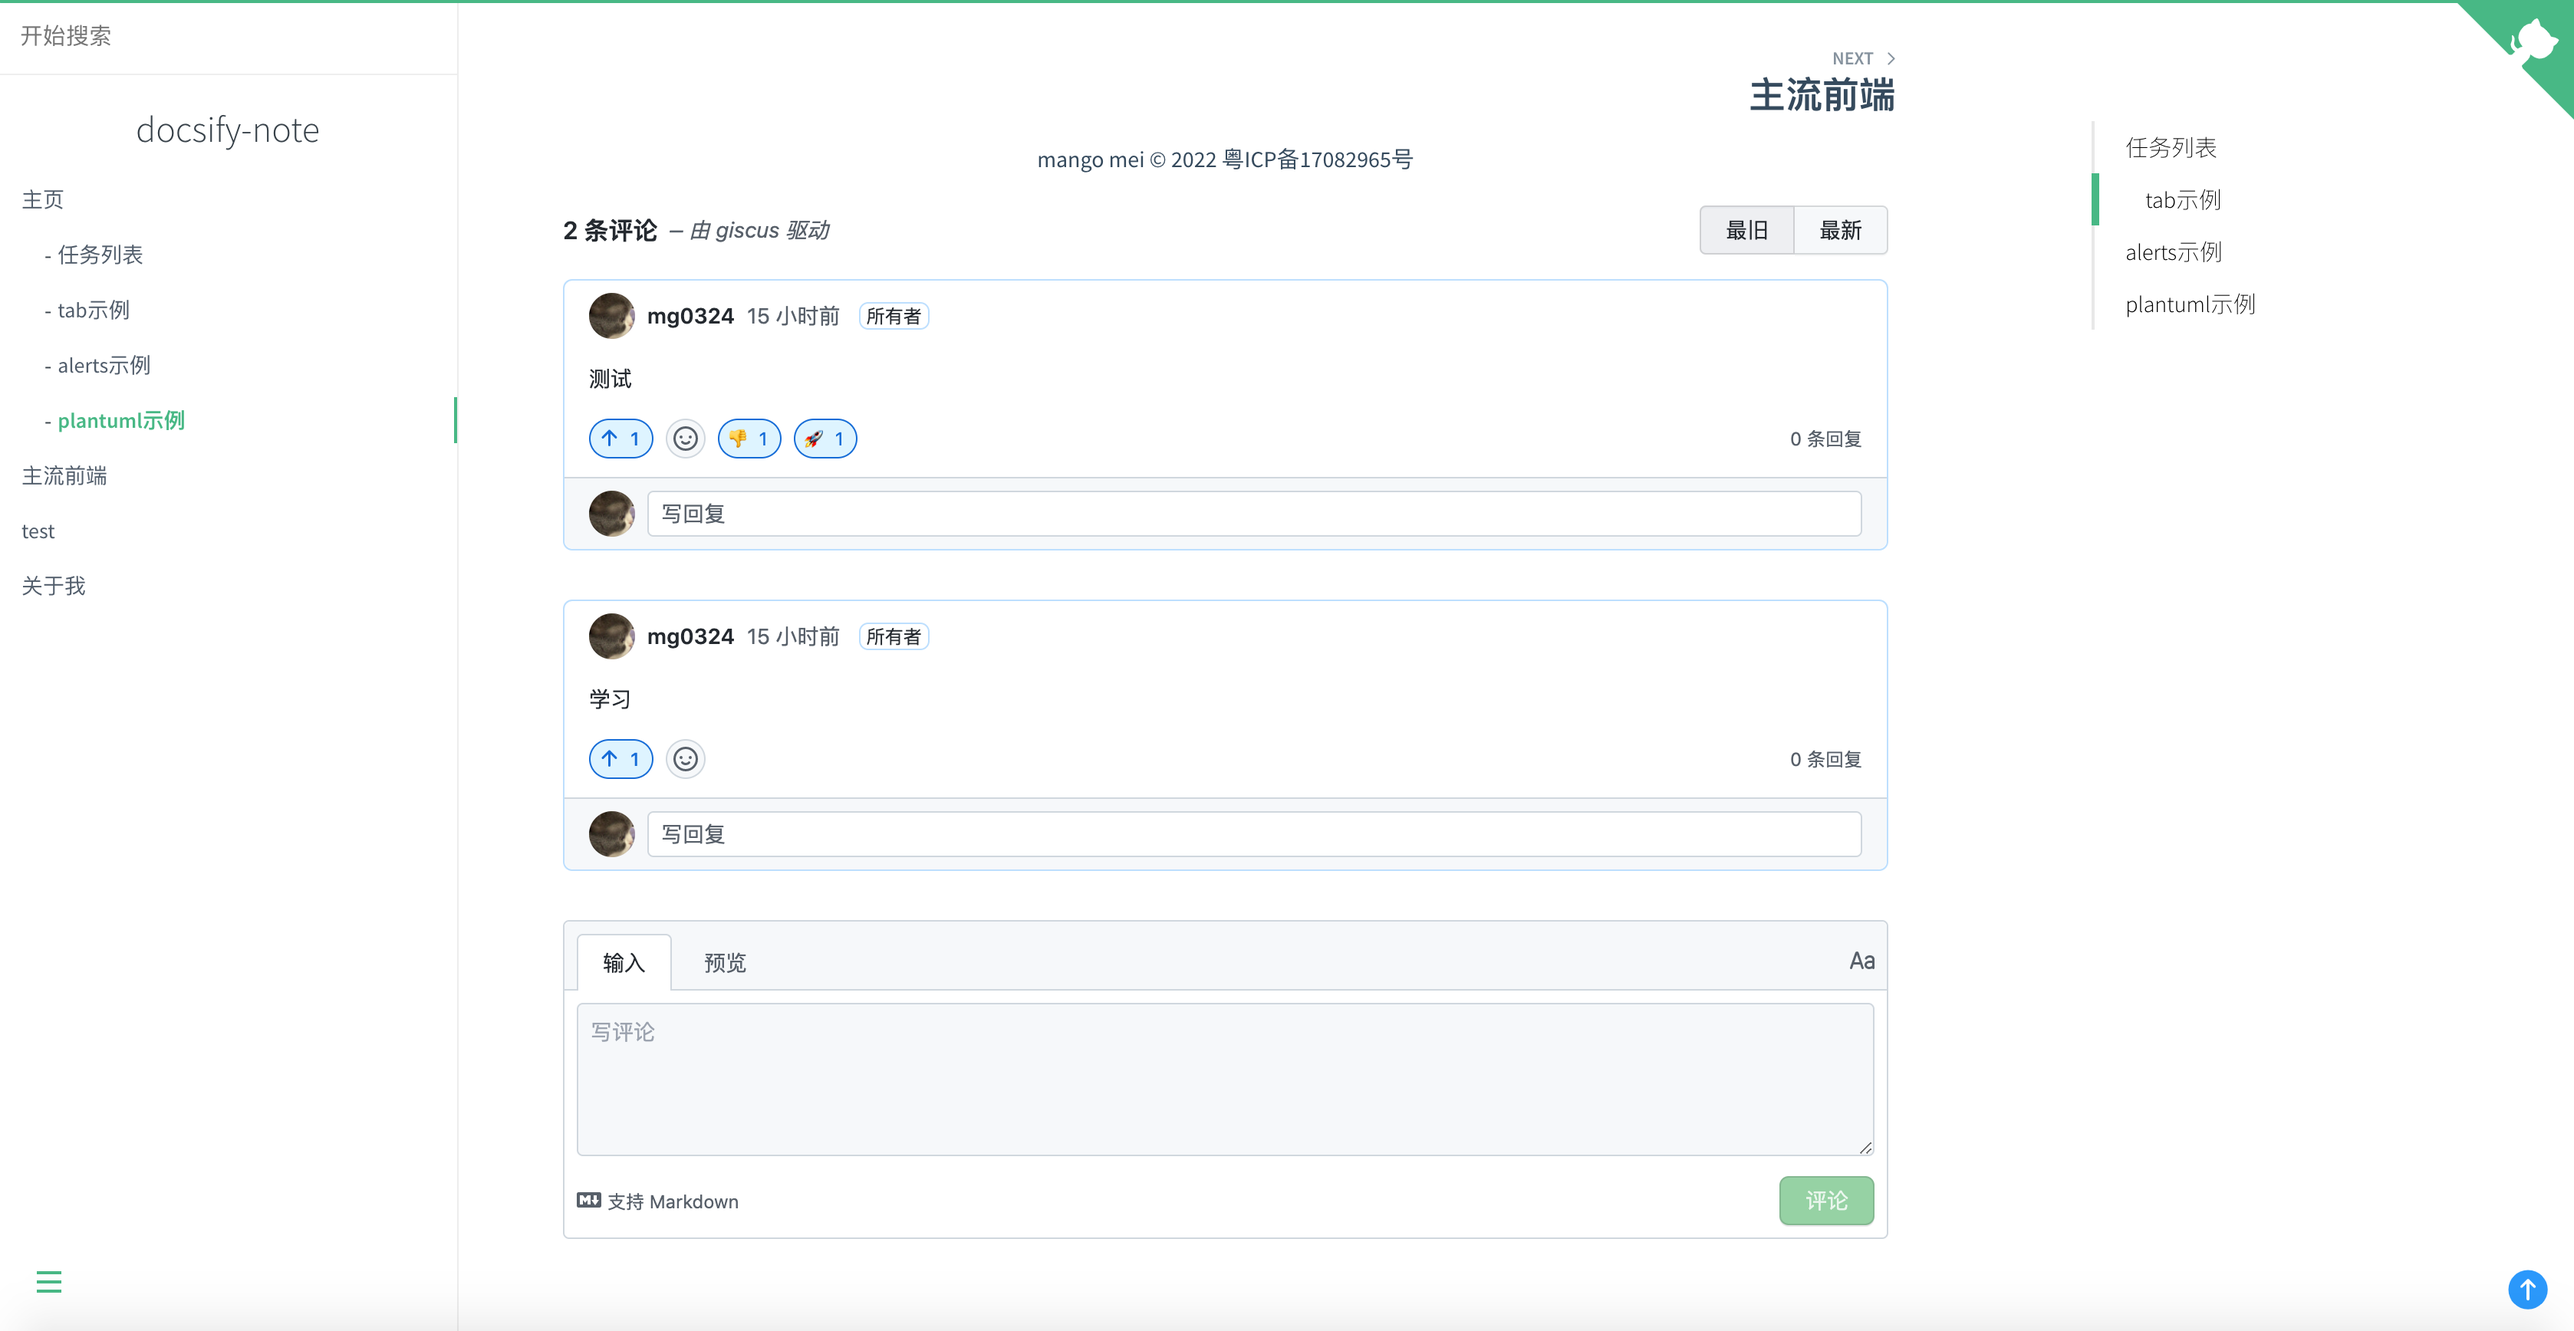
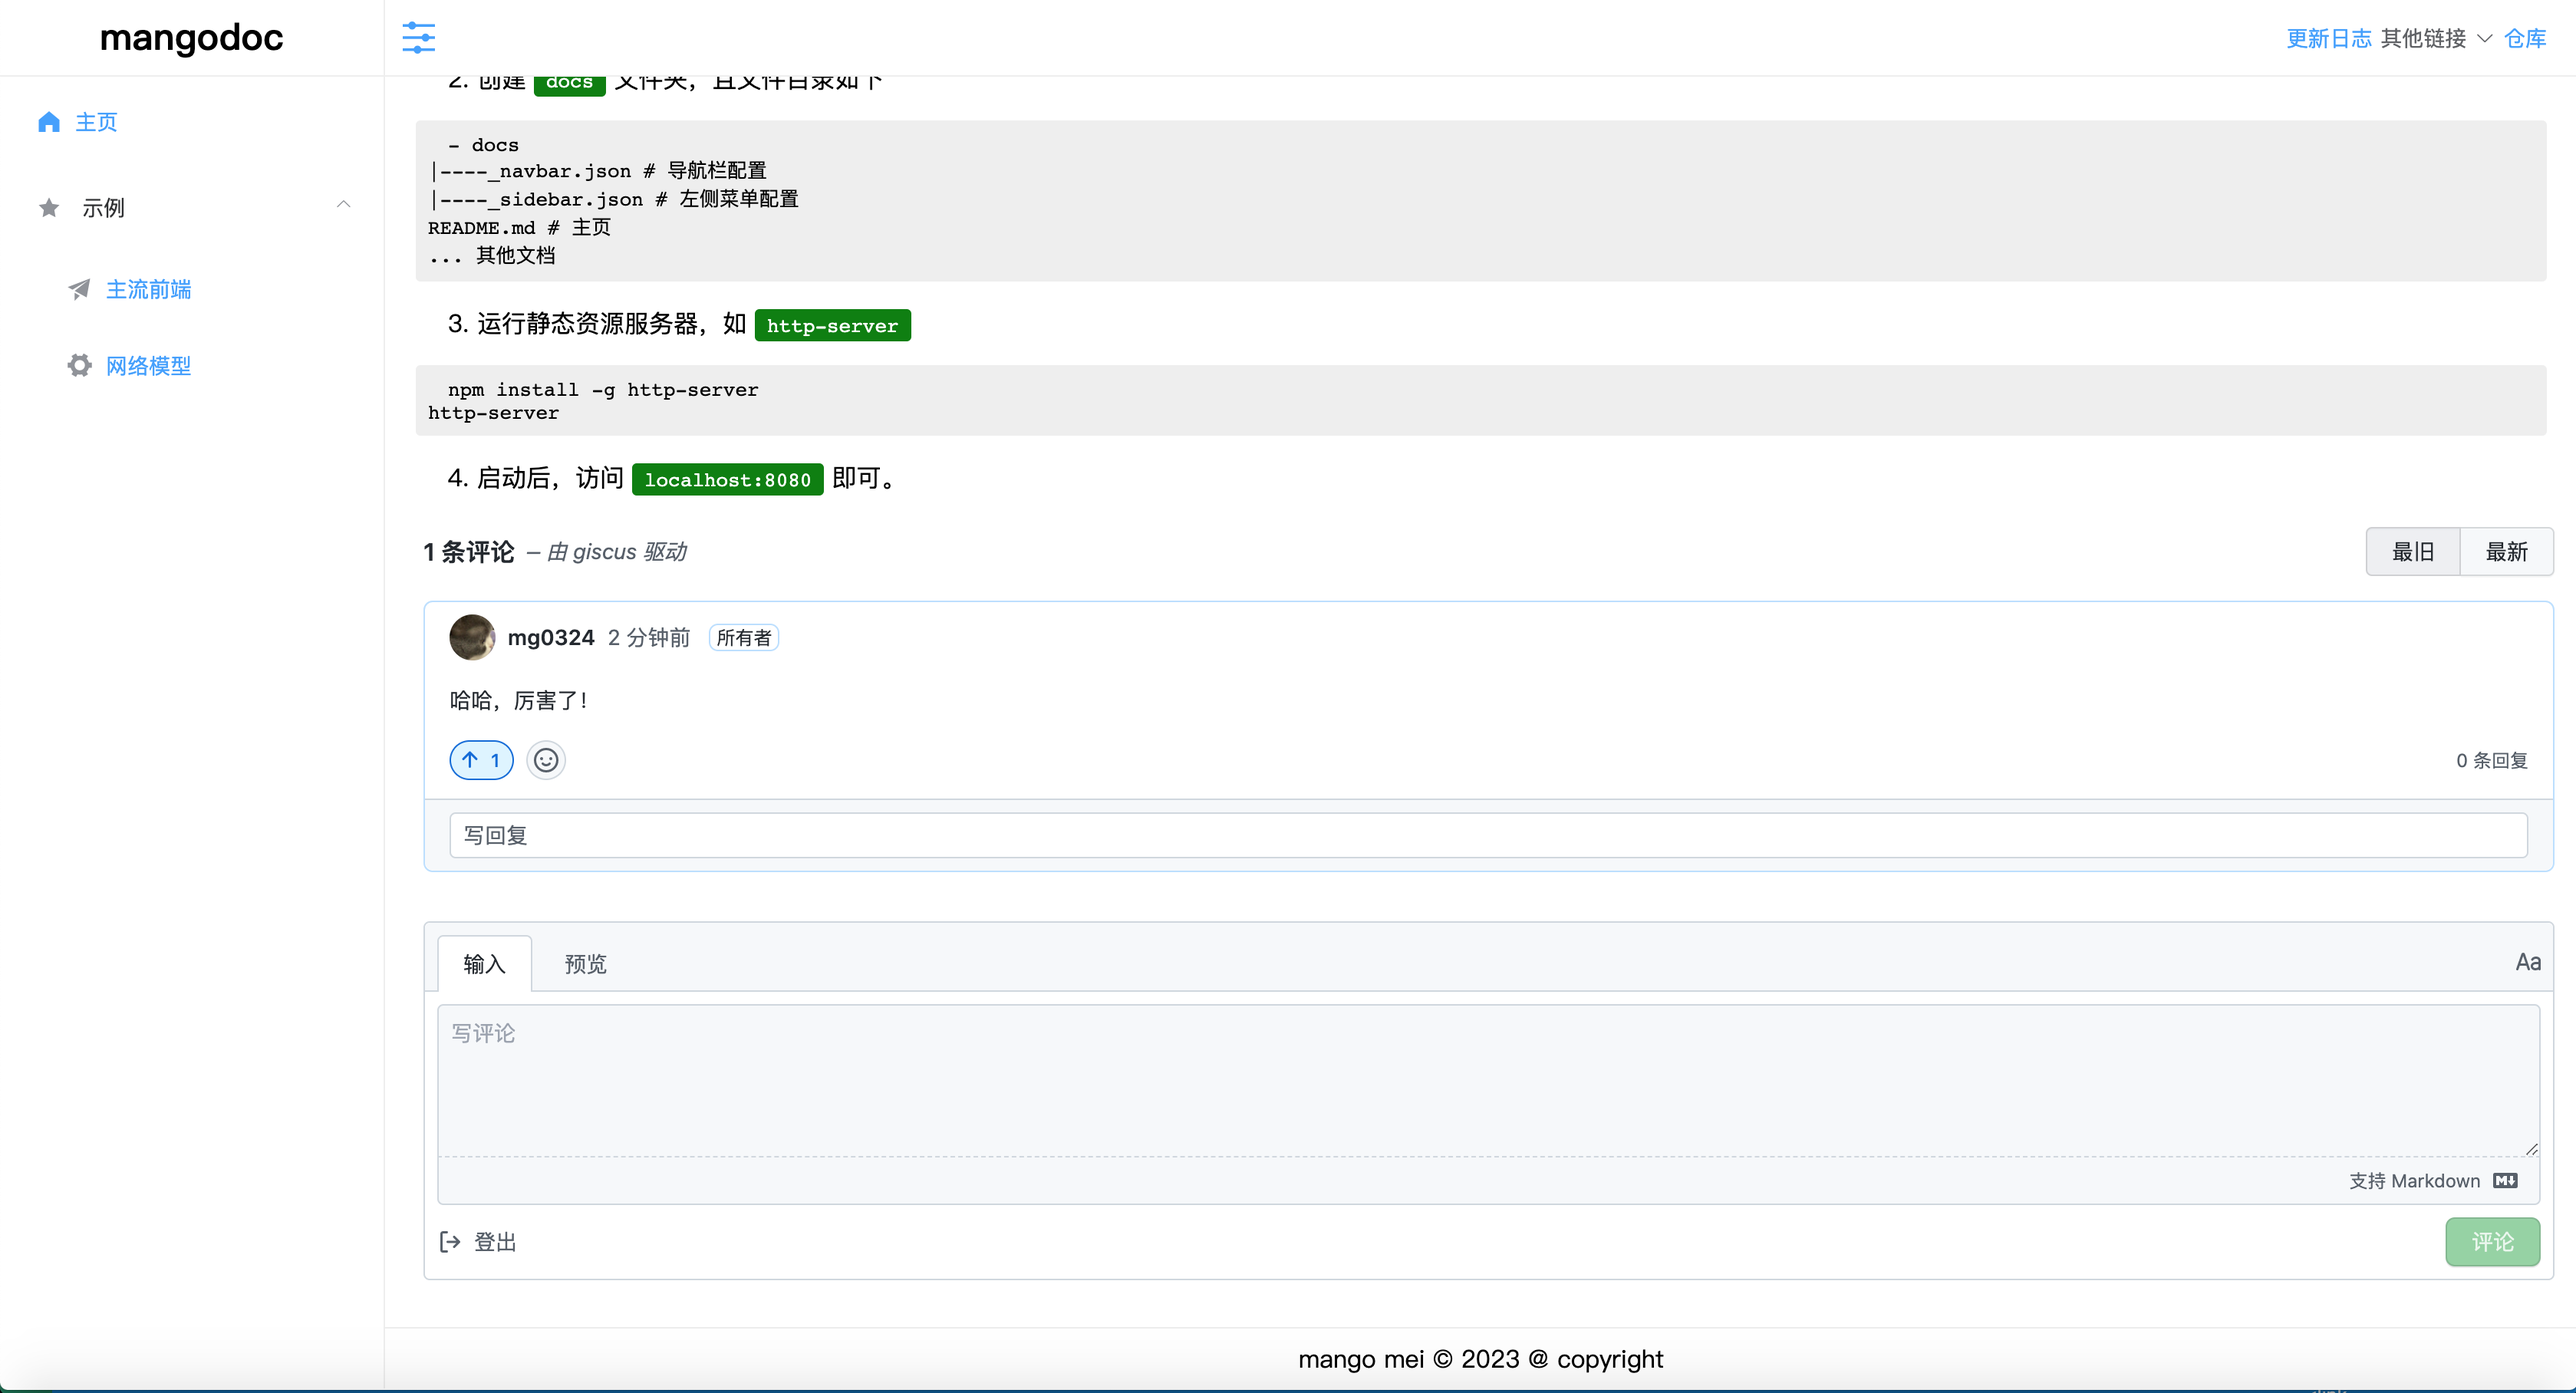
发布1.0.0

diff --git a/src/giscus.js b/src/giscus.js
@@ -24,16 +24,12 @@ function renderGiscus(config){
     s.parentNode.insertBefore(giscus, s);
     console.info("[docsify-giscus] rendering!")
 }
-
-export function install (hook, vm) {
-    hook.afterEach(function(html, next) {
-        // 解析成 html 后调用。
-        // beforeEach 和 afterEach 支持处理异步逻辑
-        // ...
-        // 异步处理完成后调用 next(html) 返回结果
+export default {
+    afterEach(html,next){
+        console.info("mangodoc-giscus afterEach:"+html);
         html = html + "<div class='giscus'></div>";
-        var config = window.$docsify.giscus;
+        var config = window.$mangodoc.giscus;
         renderGiscus(config);
         next(html);
-    });
+    }
 }

diff --git a/webpack.config.js b/webpack.config.js
@@ -2,7 +2,7 @@ const path = require('path')
 const TerserWebpackPlugin = require('terser-webpack-plugin')
 const CopyPlugin = require('copy-webpack-plugin')
 
-const pluginName = 'docsify-giscus'
+const pluginName = 'mangodoc-giscus'
 
 module.exports = {
   mode: 'production',
@@ -13,7 +13,7 @@ module.exports = {
   output: {
     path: path.join(process.cwd(), 'dist'),
     filename: '[name].js',
-    library: 'DocsifyGiscus',
+    library: 'MangodocGiscus',
     libraryTarget: 'umd',
     libraryExport: 'default',
     sourceMapFilename: '[file].map',

diff --git a/src/index.js b/src/index.js
@@ -1,7 +1,7 @@
-import { install } from './giscus'
+import install from './giscus'
 
-if (!window.$docsify) {
-  window.$docsify = {}
+if (!window.$mangodoc) {
+  window.$mangodoc = {}
 }
 
-window.$docsify.plugins = (window.$docsify.plugins || []).concat(install)
+window.$mangodoc.plugins = (window.$mangodoc.plugins || []).concat(install)

diff --git a/README.md b/README.md
@@ -1,7 +1,7 @@
-# docsify-giscus
-docsify giscus plugin，集成giscus评论插件！
+# mangodoc-giscus
+mangodoc giscus plugin，集成giscus评论插件！
 
-[![npm](https://img.shields.io/npm/v/docsify-plugin-toc.svg?style=flat-square)](https://www.npmjs.com/package/docsify-giscus)
+[![npm](https://img.shields.io/npm/v/mangodoc-plugin-toc.svg?style=flat-square)](https://www.npmjs.com/package/mangodoc-giscus)
 
 ![示例](demo.png)
 
@@ -9,13 +9,13 @@ docsify giscus plugin，集成giscus评论插件！
 ## Usage
 1. [Applay giscus](https://giscus.app/zh-CN) ，申请 giscus
 
-2. Configure docsify-giscus:(配置值详情请参考 https://giscus.app/zh-CN ）
+2. Configure mangodoc-giscus:(配置值详情请参考 https://giscus.app/zh-CN ）
 
     ```html
     <script>
-    window.$docsify = {
+    window.$mangodoc = {
       giscus:{
-        repo: "mg0324/docsify-note-01",
+        repo: "mg0324/mangodoc-note-01",
         repoId: "R_kgDOI4bELQ",
         category: "Announcements",
         categoryId: "DIC_kwDOI4bELc4CT_Su",
@@ -32,10 +32,10 @@ docsify giscus plugin，集成giscus评论插件！
     </script>
     ```
 
-3. Insert script into docsify document:
+3. Insert script into mangodoc document:
 
     ```html
     <!-- giscus评论  -->
-    <link rel="stylesheet" href="https://unpkg.com/docsify-giscus@1.0.2/dist/giscus.css">
-    <script src="https://unpkg.com/docsify-giscus@1.0.2/dist/docsify-giscus.min.js"></script>
+    <link rel="stylesheet" href="https://unpkg.com/mangodoc-giscus@1.0.0/dist/giscus.css">
+    <script src="https://unpkg.com/mangodoc-giscus@1.0.0/dist/mangodoc-giscus.min.js"></script>
     ```
